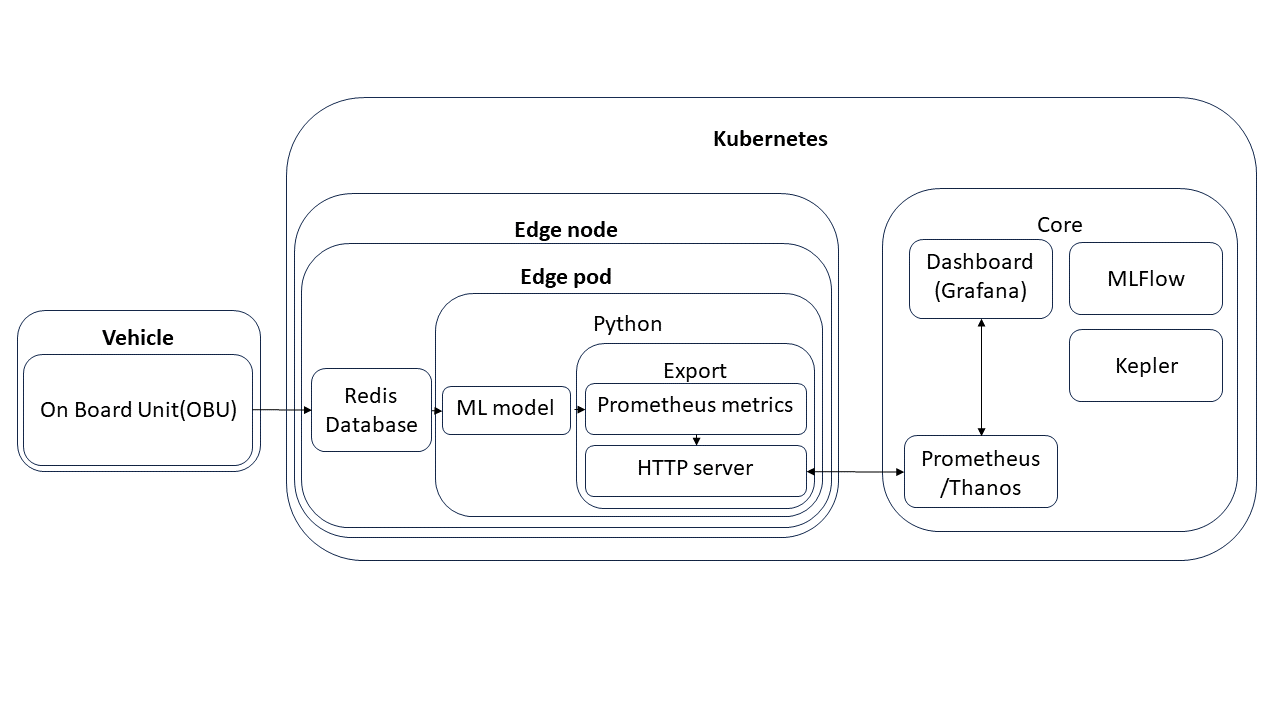
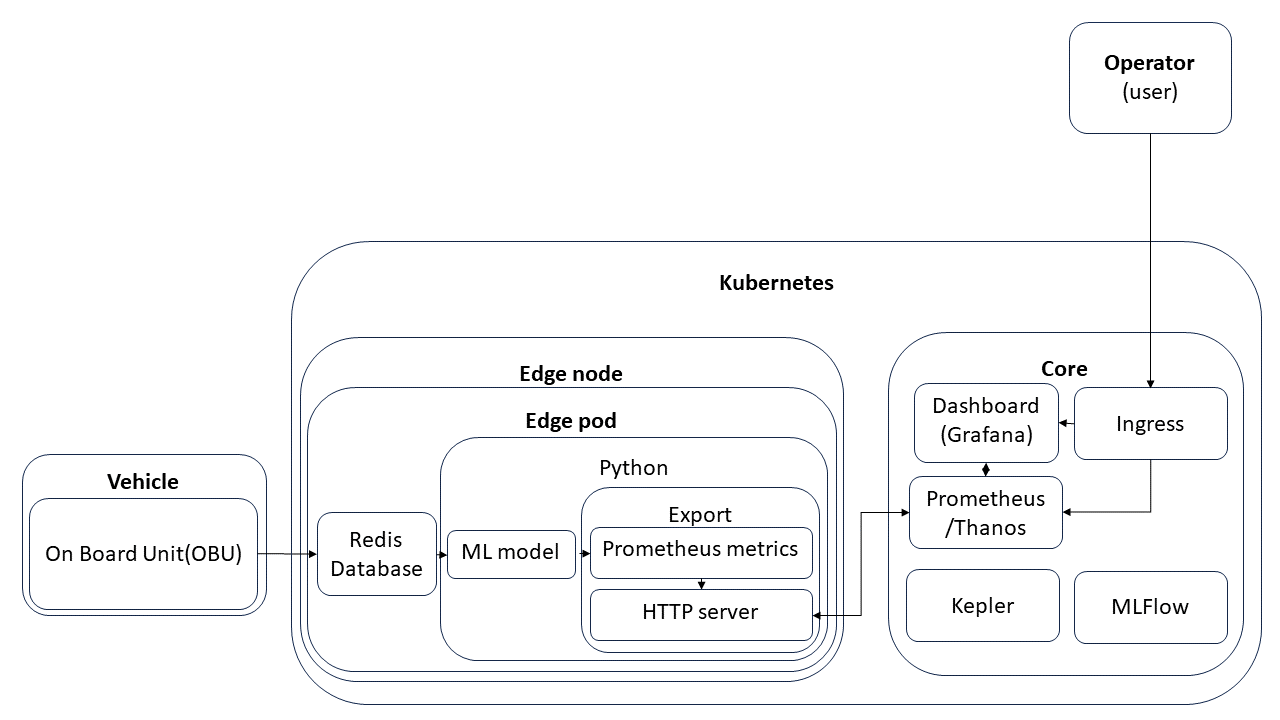
docu

diff --git a/README.MD b/README.MD
@@ -18,9 +18,13 @@ Step by step procedure to run the implementation can be found in [procedure.md](
 * expose measurements and predictions over [http](https://prometheus.github.io/client_python/exporting/http/)
 * scrape data from edge by Prometheus, i.e. using service like [redis_exporter](/configs/prometheus_kepler_service_monitor.yaml)
   * NOT tested [success6g service monitor](/configs/prometheus_success6g_edge_service_monitor.yaml)
+* 
 
 ## Prometheus-stack
 * finish Thanos [configuration](/configs/prometheus_stack.yaml)
+* how to do `tls-credential`, `hosts` and `externalUrl` in NearbyComputing orchestration
+  * [ingress_prometheus_stack](/configs/ingress_prometheus_stack.yaml)
+  * [ingress_prometheus_stack](/configs/prometheus_stack.yaml)
 
 ## Grafana
 * make [success6g dashboard](/configs/success6g_dashboard.json)
